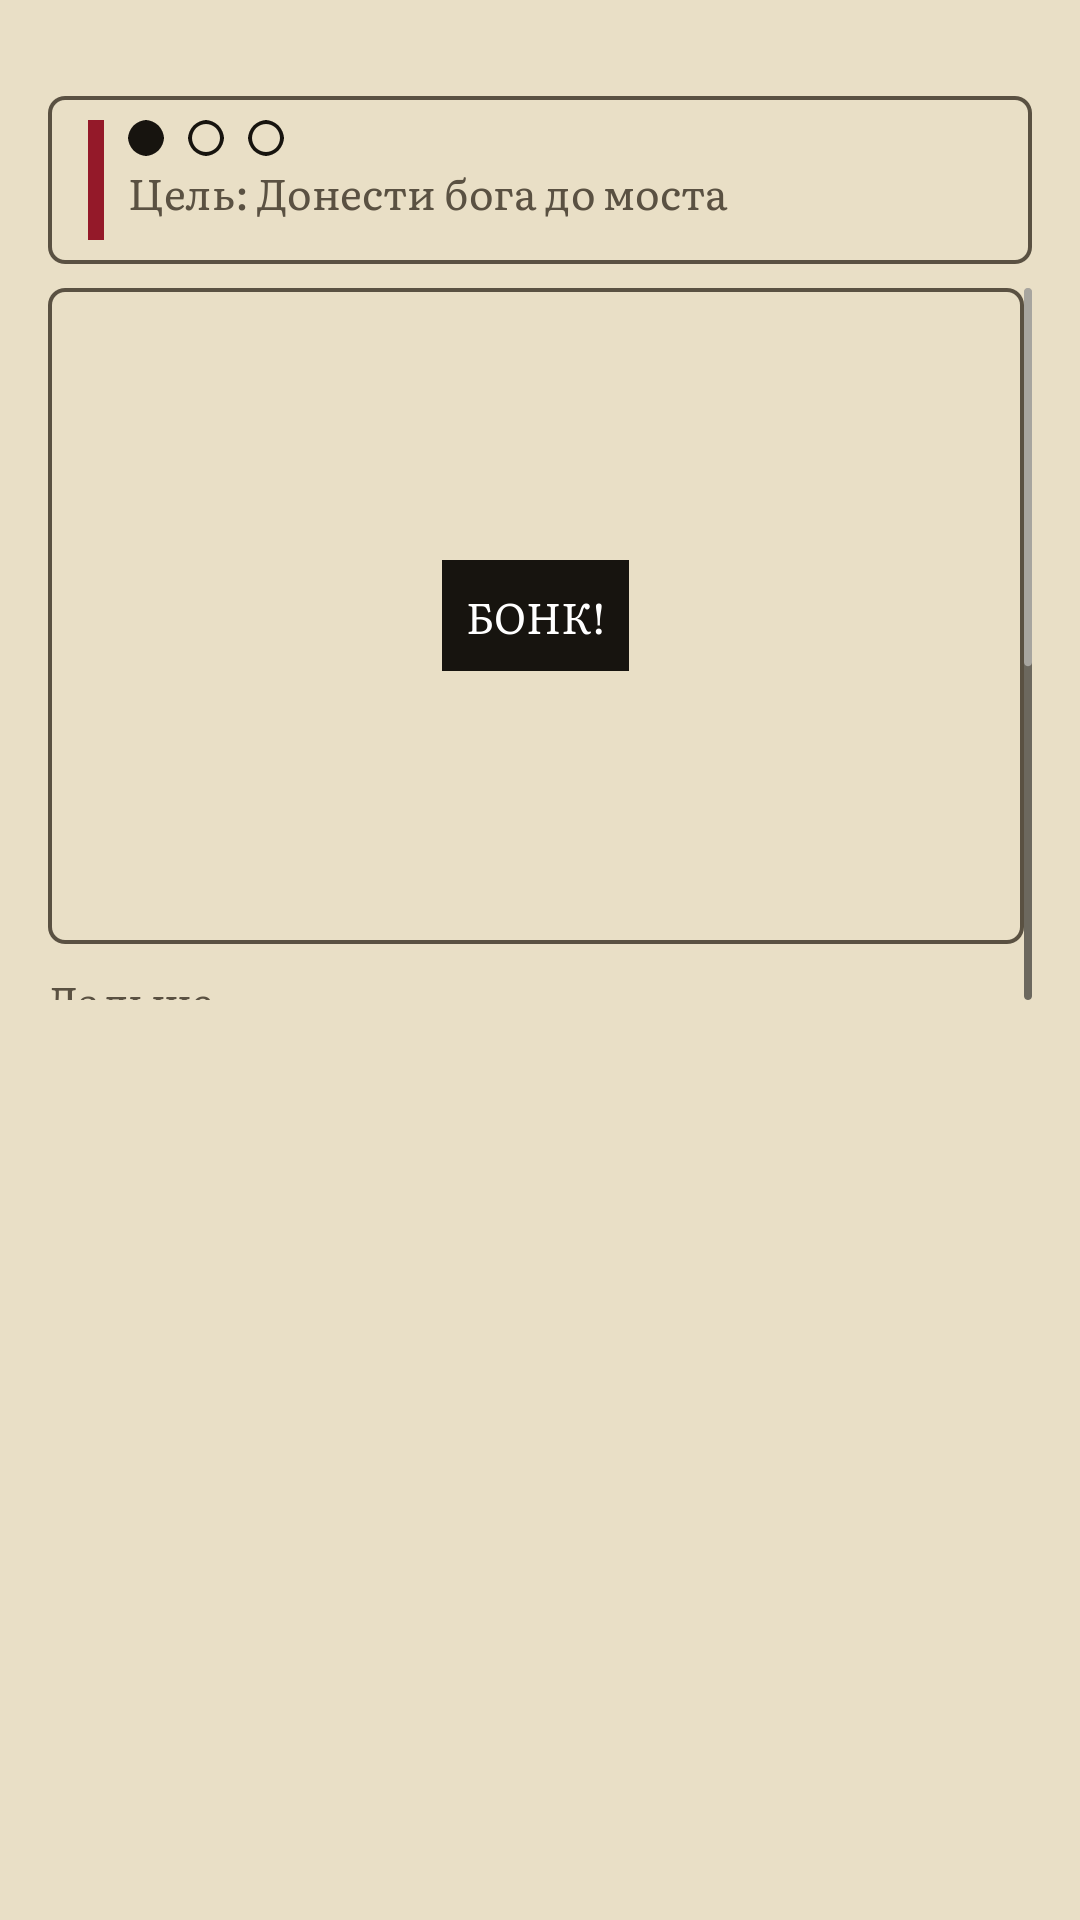
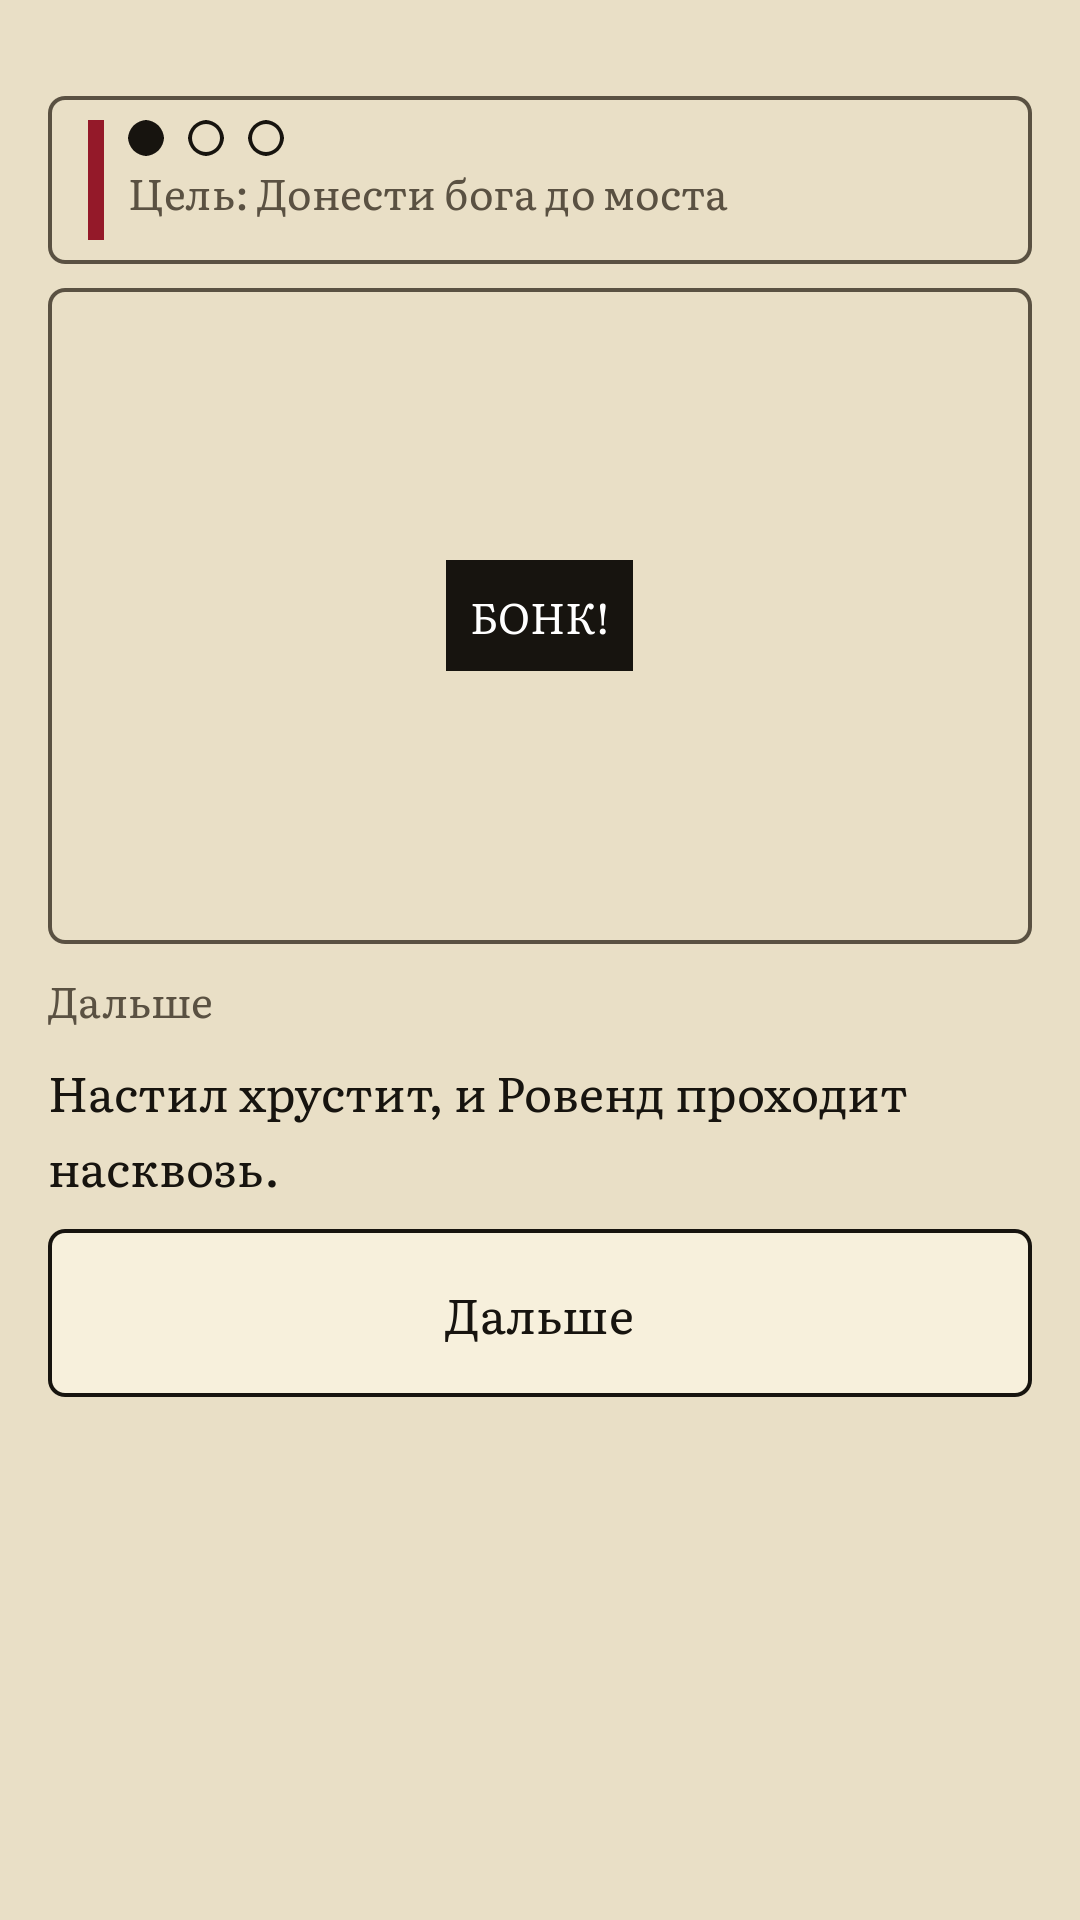
fix: story DATA3 closed — audit minors (frame slot exception noted, layout test compares position, budget from config, risky options assert a check), cartouche screenshots re-taken with a matching xvfb screen (1069 tests green, validator exit 0)
Story: DATA3

Claude-Session: https://claude.ai/code/session_01P3e8YNZLRk3tosmdTrfkwg

diff --git a/production/HANDOFF.md b/production/HANDOFF.md
@@ -32,6 +32,7 @@
 GDD (все Designed, ждут независимого ревью): run-state, d20-checks, heroes, branching-story, choice-system, chapter-goal, save-system, scene-illustrations. MVP 8/10 в `design/gdd/systems-index.md`. Решения директоров — `design/DIRECTOR_DECISIONS.md` (последний DD-017).
 
 ## Открытые задачи
+- Глава 1 в данных (2026-11-19, 1069 тестов, validate_data 0 с 10 принятыми предупреждениями): CEO утвердил завязку «Похороны к закату», финал у храма с вербовщиком, 4 новых места, текст (design/narrative/chapter-01-script.md) и 8 фраз крита; лист design/narrative/chapter-01-sheet.md (аудит lore 2 раунда). Данные assets/data/heroes/rovend/{hero,flags,chapters/ch1}.json; ставка главы (stake ≤120, предупреждение), имя героя (name), картуш исхода (cartouche bonk/censor, ≤3 на главу) — ADR-0001 и reading-screen.md:118/:329. Открыто: портрет «portrait_rovend» — заглушка до арта; иллюстрации ill_<сцена> — заглушки; пути 11 сцен ≈1340–1500 слов (ниже W_min, в окне GDD) — замер по AC-70; tr() идёт русскими литералами (таблицы переводов нет). Съёмка под xvfb: экран xvfb должен совпадать с окном (-screen 0 1080xH), иначе Safe Area даёт ложный нижний инсет. Дальше — первый APK и пробы на устройстве.
 - История SCR2 «Экран броска» закрыта 2026-11-19 (1032 теста, аудит 2 раунда, override не было; 42 скриншота production/qa/evidence/scr2-*, светлая тема). src/ui/roll/ (roll_screen, roll_host в boot), assets/art/roll/ (7 SVG + круг света). MVP-экраны готовы. Открыто до/на APK: «меньше анимации» — reduce_motion_source=false до пробы RS-D6 (API Android нет в engine-reference); лучи крита заменены вспышкой круга; tnum Literata (RS-D4); skip-on-release и SLOT_RATIO_BIG — на устройстве; тёмная тема не снималась; синхронный show_released в continue_check не воспроизводим (закреплён guard); Android Back приходит и Экрану чтения под броском (безвредно, проверить на устройстве). Спека roll-screen.md можно снимать с Draft (`/ux-review`). Дальше по MVP: первая глава в данных (+ поле ставки главы), первый APK (`.claude/skills/godot-apk-ci/SKILL.md`) и пробы на устройстве.
 - История RC2 «Сбой хода: ядро и экран» закрыта 2026-11-19 (1003 теста, аудит 2 раунда, override не было; скриншоты production/qa/evidence/rc2-flowerror-*). Ядро спрашивает Состояние до приёма результата на обоих путях, флаг ошибки потока в сессии, close_check только после отказа «не применено»; экран «Не удалось продолжить» (строка CEO). Открыто: временные строки «Меню появится позже.» и «Не удалось загрузить сохранение.» — на нарративный проход writer; тест «флаг ошибки переживает CORRUPT с ERROR-страницей»; CORRUPT вне экрана ошибки ничего не показывает (спека экранов ошибок сохранения, Q8); RunState.can_apply() всегда true (shortcut до статуса «Завершено»); Safe Area «выше нижней вставки» на 1080×2400 — замер на устройстве; интеграция close_check — в SCR2. Дальше — SCR2 «Экран броска».
 - История GC1 «Цель главы: ядро» закрыта 2026-11-19 (982 теста, аудит 2 раунда, override не было): GoalRules (F2, Э-21, режимы), GoalView, start/milestone_max в снимке (format_version 1, ADR-0002 B4), провал_ждёт/финал_показан, событие «текст исхода показан». Shortcut: ставки главы нет в данных (GoalView.stake пустая) — добавить поле в данные главы; неузловая сцена, повторённая циклом без других записей журнала, после загрузки даёт провал_ждёт истину (вживую ложь) — закрывается только снимком входа каждой сцены (формат сохранения); нормализация снимков схемы — с историей «Схема главы».
